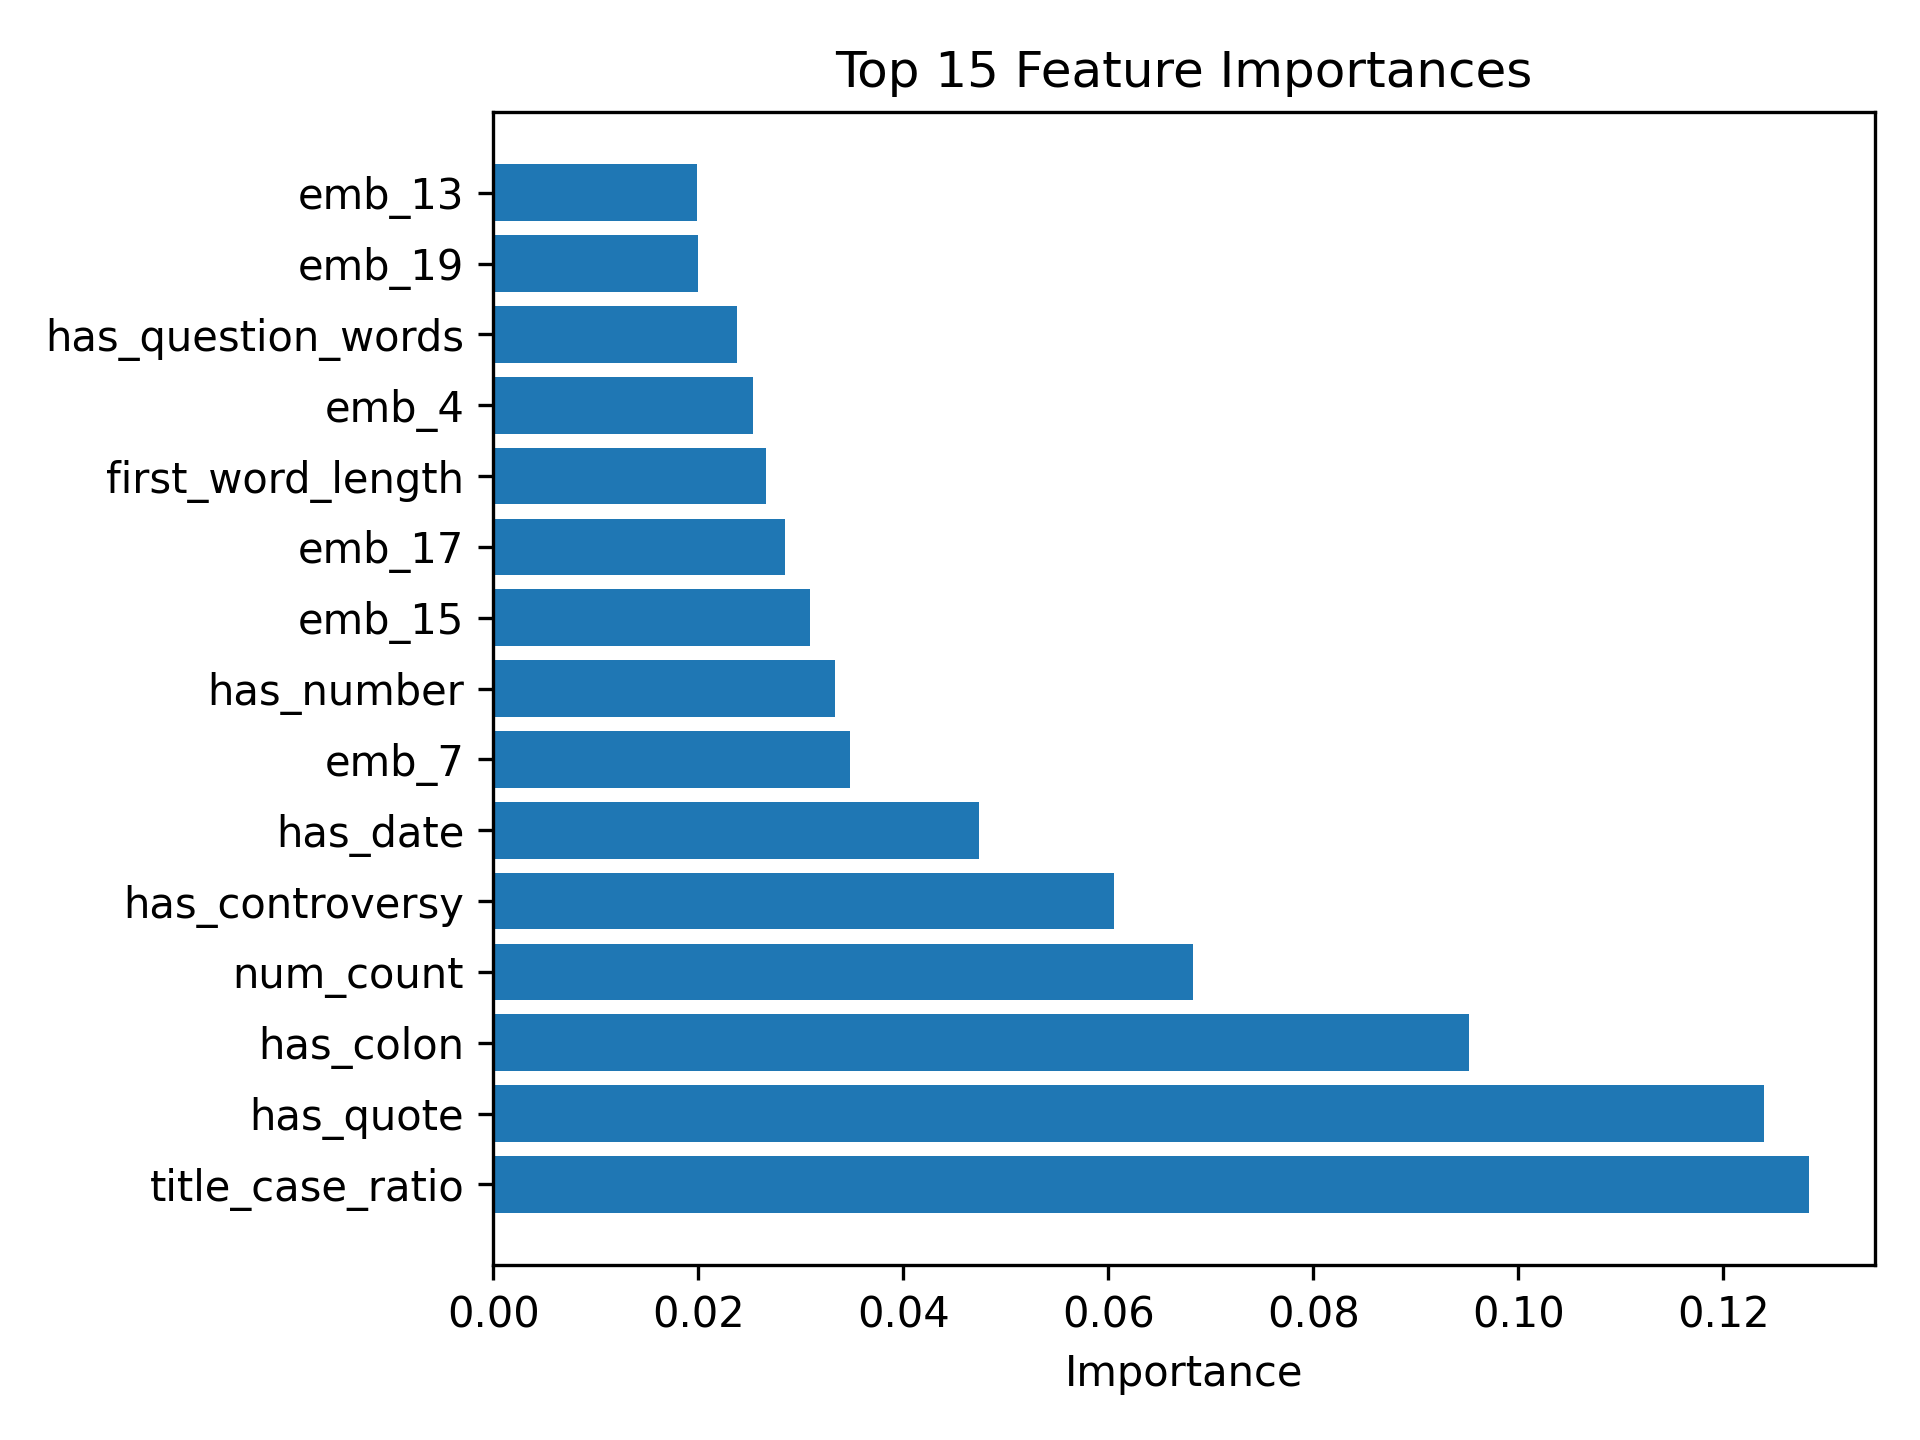
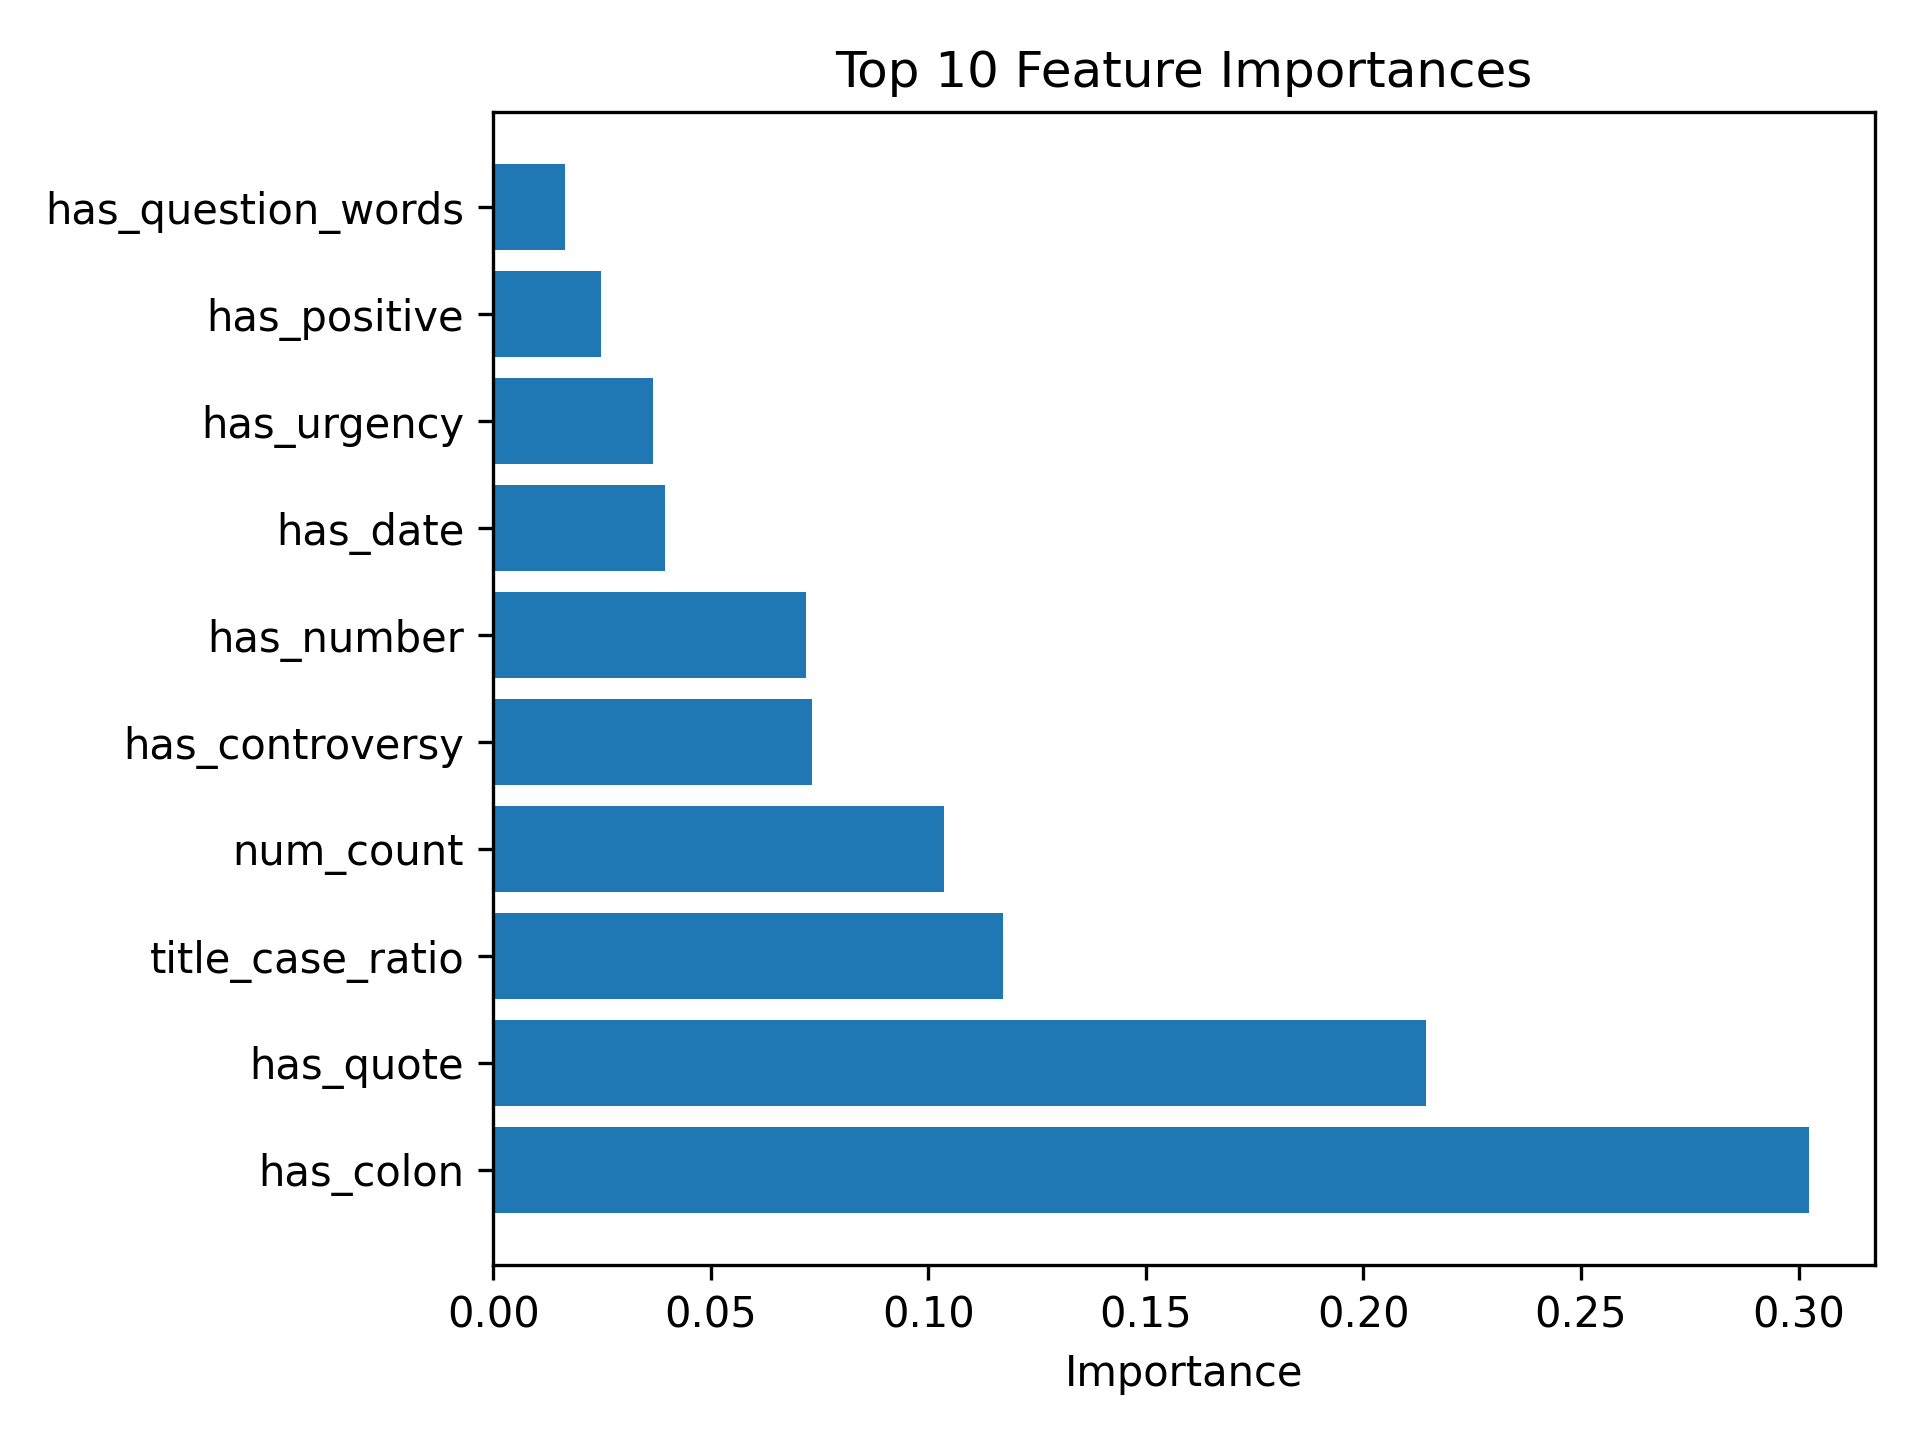
updates

diff --git a/headline_model_trainer.py b/headline_model_trainer.py
@@ -511,8 +511,17 @@ class HeadlineModelTrainer:
         y_val = (val_ctr > 0).astype(int) if val_ctr is not None else None
 
         # 2) Feature selection
-        selected = self.manual_feature_selection(train_features, y_train, threshold=0.2)
-        X_tr = train_features[selected]
+        X_tr_full = train_features.copy()
+        if do_resample:
+            from imblearn.combine import SMOTETomek
+            sampler = SMOTETomek(random_state=42)
+            X_tr_full, y_train = sampler.fit_resample(X_tr_full, y_train)
+            logging.info(f"Resampled to {len(y_train)} rows; "
+                        f"{y_train.sum()} clicks, {len(y_train)-y_train.sum()} no-clicks")
+
+       # 3) Now do feature selection on the (possibly balanced) data
+        selected = self.manual_feature_selection(X_tr_full, y_train, threshold=0.2)
+        X_tr      = X_tr_full[selected]
         X_val = val_features[selected] if val_features is not None else None
 
         # 3) Set up classifier params
@@ -536,13 +545,6 @@ class HeadlineModelTrainer:
 
         logging.info(f"Classifier params: {params}")
         model = XGBClassifier(**params)
-
-        if do_resample:
-            from imblearn.combine import SMOTETomek
-            sampler = SMOTETomek(random_state=42)
-            X_tr, y_train = sampler.fit_resample(X_tr, y_train)
-            logging.info(f"Resampled to {len(y_train)} rows; "
-                        f"{y_train.sum()} clicks, {len(y_train)-y_train.sum()} no-clicks")
 
         # 4) Train with early stopping
         start = time.time()
@@ -574,7 +576,17 @@ class HeadlineModelTrainer:
         val_metrics = {}
         if X_val is not None and y_val is not None:
             p_val = model.predict_proba(X_val)[:, 1]
-            y_val_pred = (p_val > 0.5).astype(int)
+            from sklearn.metrics import precision_recall_curve
+        # Compute precision, recall and thresholds
+            prec, rec, thresh = precision_recall_curve(y_val, p_val)
+            # Compute F1 for each threshold
+            f1s = 2 * prec * rec / (prec + rec + 1e-8)
+            # Pick the threshold that gives the highest F1
+            best_thr = thresh[np.argmax(f1s)]
+            logging.info(f"Optimal validation threshold for F1 = {best_thr:.3f}")
+
+            # Then use best_thr instead of 0.5 when you binarize:
+            y_val_pred = (p_val >= best_thr).astype(int)
             val_metrics = {
                 'accuracy': accuracy_score(y_val, y_val_pred),
                 'precision': precision_score(y_val, y_val_pred, zero_division=0),

diff --git a/model_output/headline_model_report.md b/model_output/headline_model_report.md
@@ -1,23 +1,23 @@
 # Headline Click Prediction Model Report
-    Generated: 2025-05-12 22:16
+    Generated: 2025-05-12 22:49
 
     ## Model Configuration
     - Model Type: XGBClassifier (Binary Classification)
     - Task: Predict whether a headline will be clicked
-    - Training Time: 1.78 seconds
+    - Training Time: 0.20 seconds
 
     ## Model Performance
-    - Training Accuracy : 0.5127
-    - Training Precision: 1.0000
-    - Training Recall   : 0.0254
-    - Training F1 Score : 0.0496
-    - Training AUC      : 0.7356
+    - Training Accuracy : 0.5171
+    - Training Precision: 0.9895
+    - Training Recall   : 0.0345
+    - Training F1 Score : 0.0666
+    - Training AUC      : 0.6656
     
-    - Validation Accuracy : 0.9625
-    - Validation Precision: 0.0000
-    - Validation Recall   : 0.0000
-    - Validation F1 Score : 0.0000
-    - Validation AUC      : 0.5333
+    - Validation Accuracy : 0.9622
+    - Validation Precision: 0.1667
+    - Validation Recall   : 0.0020
+    - Validation F1 Score : 0.0039
+    - Validation AUC      : 0.5085
     
     ## Dataset Summary
     - Training headlines  : 28648
@@ -27,21 +27,16 @@
     - Validation click rate: 0.0375
 
     ## Key Feature Importances
-    - title_case_ratio: 0.1284
-- has_quote: 0.1240
-- has_colon: 0.0952
-- num_count: 0.0683
-- has_controversy: 0.0605
-- has_date: 0.0473
-- emb_7: 0.0348
-- has_number: 0.0334
-- emb_15: 0.0309
-- emb_17: 0.0284
-- first_word_length: 0.0266
-- emb_4: 0.0253
-- has_question_words: 0.0237
-- emb_19: 0.0200
-- emb_13: 0.0199
+    - has_colon: 0.3025
+- has_quote: 0.2143
+- title_case_ratio: 0.1171
+- num_count: 0.1036
+- has_controversy: 0.0733
+- has_number: 0.0719
+- has_date: 0.0395
+- has_urgency: 0.0368
+- has_positive: 0.0246
+- has_question_words: 0.0164
 
     ## Usage Guidelines
     This model predicts the probability that a headline will be clicked.
